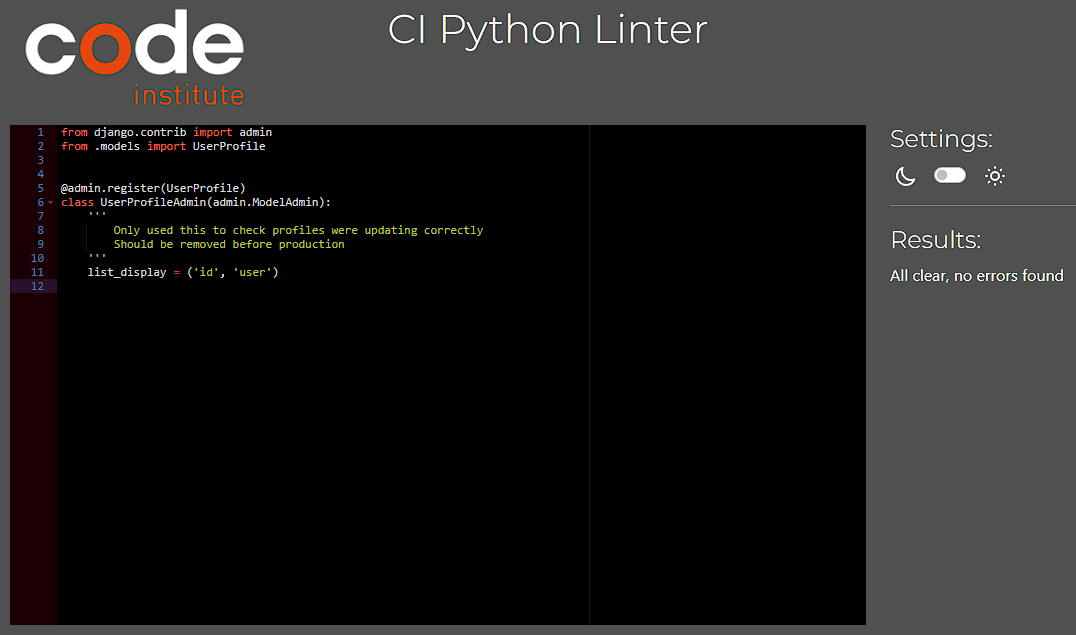
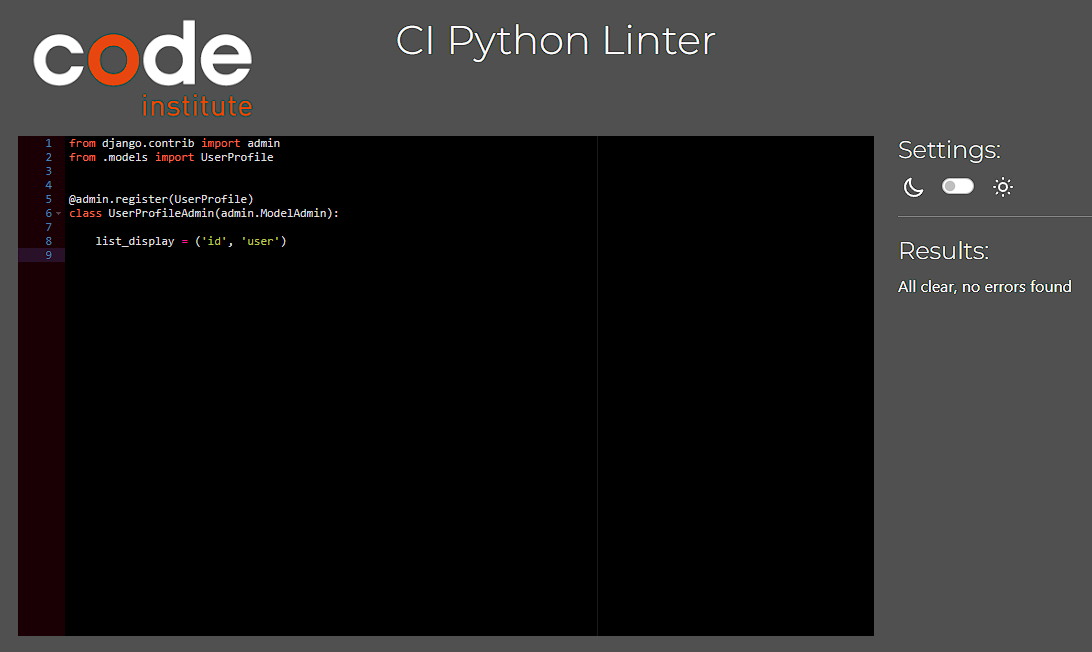
added pep8 images

diff --git a/profiles/admin.py b/profiles/admin.py
@@ -4,8 +4,5 @@ from .models import UserProfile
 
 @admin.register(UserProfile)
 class UserProfileAdmin(admin.ModelAdmin):
-    '''
-        Only used this to check profiles were updating correctly
-        Should be removed before production
-    '''
+
     list_display = ('id', 'user')

diff --git a/README.md b/README.md
@@ -149,22 +149,13 @@ The exception are posts and comments which can be found in the actual userprofil
 
 ## Testing
 
-### Responsiveness Test
+### Responsiveness
 
 Responsiveness testing on https://responsivedesignchecker.com/
-I could not log in due to csrf token issues, so any view that requires login, is tested through the built in chrome tool  
+Below is the home view tested in small, medium and large screen sizes  
+See the folder images/responsiveness in repo for full details and images  
 
-#### Home
 
-#### Post Detail
-
-#### Sign Up
-
-#### Login
-
-#### Create Post
-
-#### Edit Post
 
 ### Lighthouse Test
 
@@ -203,15 +194,86 @@ Results from https://pep8ci.herokuapp.com/ by app:
 
 #### create_post
 
+forms.py  
+![create post pep8 forms](./images/pep8ci/create_post/create_post_forms.png)
+test_forms.py  
+![create post pep 8 test forms](./images/pep8ci/create_post/create_post_test_forms.png)
+test_views.py  
+![create post pep 8 test views](./images/pep8ci/create_post/create_post_test_views.png)
+urls.py  
+![create post pep 8 urls](./images/pep8ci/create_post/create_post_urls.png)
+views.py  
+![create post pep 8 views](./images/pep8ci/create_post/create_post_views.png)
+
 #### delete_actions
+
+test_views.py  
+![delete actions pep 8 test views](./images/pep8ci/delete_actions/delete_actions_test_views.png)
+urls.py  
+![delete actions pep 8 urls](./images/pep8ci/delete_actions/delete_actions_urls.png)
+views.py  
+![delete actions pep 8 views](./images/pep8ci/delete_actions/delete_actions_views.png)
 
 #### edit_post
 
+test_views.py  
+![edit post pep 8 test views](./images/pep8ci/edit_post/edit_post_test_views.png)
+urls.py  
+![edit post pep 8 urls](./images/pep8ci/edit_post/edit_post_urls.png)
+views.py  
+![edit post pep 8 views](./images/pep8ci/edit_post/edit_post_views.png)
+
 #### home
+
+admin.py  
+![home pep 8 admin](./images/pep8ci/edit_post/edit_post_test_views.png)
+context_processors.py  
+![home pep 8 context processors](./images/pep8ci/home/home_context_processors.png)
+models.py  
+![home pep 8 models](./images/pep8ci/home/home_models.png)
+test_admin.py  
+![home pep 8 test_admin](./images/pep8ci/home/home_test_admin.png)
+test_models.py  
+![home pep 8 test_admin](./images/pep8ci/home/home_test_models.png)
+test_views.py  
+![home pep 8 test views](./images/pep8ci/edit_post/edit_post_test_views.png)
+urls.py  
+![home pep 8 urls](./images/pep8ci/edit_post/edit_post_urls.png)
+views.py  
+![home pep 8 views](./images/pep8ci/edit_post/edit_post_views.png)
+
+#### main_project (rtr_v5)
+
+settings.py  
+![rtr_v5 pep 8 settings](./images/pep8ci/main_project/main_project_settings.png)
 
 #### post_detail
 
-#### Profiles
+forms.py  
+![post detail pep8 forms](./images/pep8ci/post_detail/post_detail_forms.png)
+test_forms.py  
+![post detail pep 8 test forms](./images/pep8ci/post_detail/post_detail_test_forms.png)
+test_models.py  
+![post detail pep 8 test models](./images/pep8ci/post_detail/post_detail_test_models.png)
+test_views.py  
+![post detail pep 8 test views](./images/pep8ci/post_detail/post_detail_test_views.png)
+urls.py  
+![post detail pep 8 urls](./images/pep8ci/post_detail/post_detail_urls.png)
+views.py  
+![post detail pep 8 views](./images/pep8ci/post_detail/post_detail_views.png)
+
+#### profiles
+
+admin.py  
+![admin pep 8 admin](./images/pep8ci/profiles/profiles_admin.png)
+models.py  
+![admin pep 8 models](./images/pep8ci/profiles/profiles_models.png)
+test_models.py  
+![admin pep 8 test models](./images/pep8ci/profiles/profiles_test_models.png)
+urls.py  
+![admin pep 8 urls](./images/pep8ci/profiles/profiles_urls.png)
+views.py  
+![admin pep 8 views](./images/pep8ci/profiles/profiles_views.png.png)
 
 ### Unit testing
 
@@ -391,8 +453,12 @@ Delete comment redirect
 Forbidden 403  
 ![delete comment forbidden](./images/malicious_user_tests/delete_post_wrong_user_403.png)
 
-
 ## Known Issues
+
+### Settings, ALLOWED_HOSTS
+
+Cannot use 'localhost' or the heroku general app-name as allowed hosts, the urls must be specific or django returns an error.  
+I need to confirm it's not a chrome problem since it seems to be a problem across all apps i currently have deployed.  
 
 ### README, general improvements
 
@@ -404,13 +470,14 @@ The checkbox that lets django remember users seems to not work.
 I thought this was out-of-the-box function but it seems you need to enable it.  
 medium-high priority since it does hamper user experience a little bit, if not in a major way.
 
-### Form submitting multiple times (HOTFIX)
+### Form submitting multiple times (HOTFIX, REPLACE ASAP)
 
 When spam-clicking a form submit button (comment-form specifically), the form submits multiple times  
 
 Temporary Fix: Added a js function to prevent default and put an overlay on top of the page until form is handled.  
 This should be switched to a function that disables the button instead, or even straight python could possibly work.
-form is replaced by id for relevant form on the corresponding page.
+form is replaced by id for relevant form on the corresponding page.  
+If a user really wants to bypass this, they can, so this has a really priority to be changed and tested in jest.
 
 ### Edit Post Form
 
